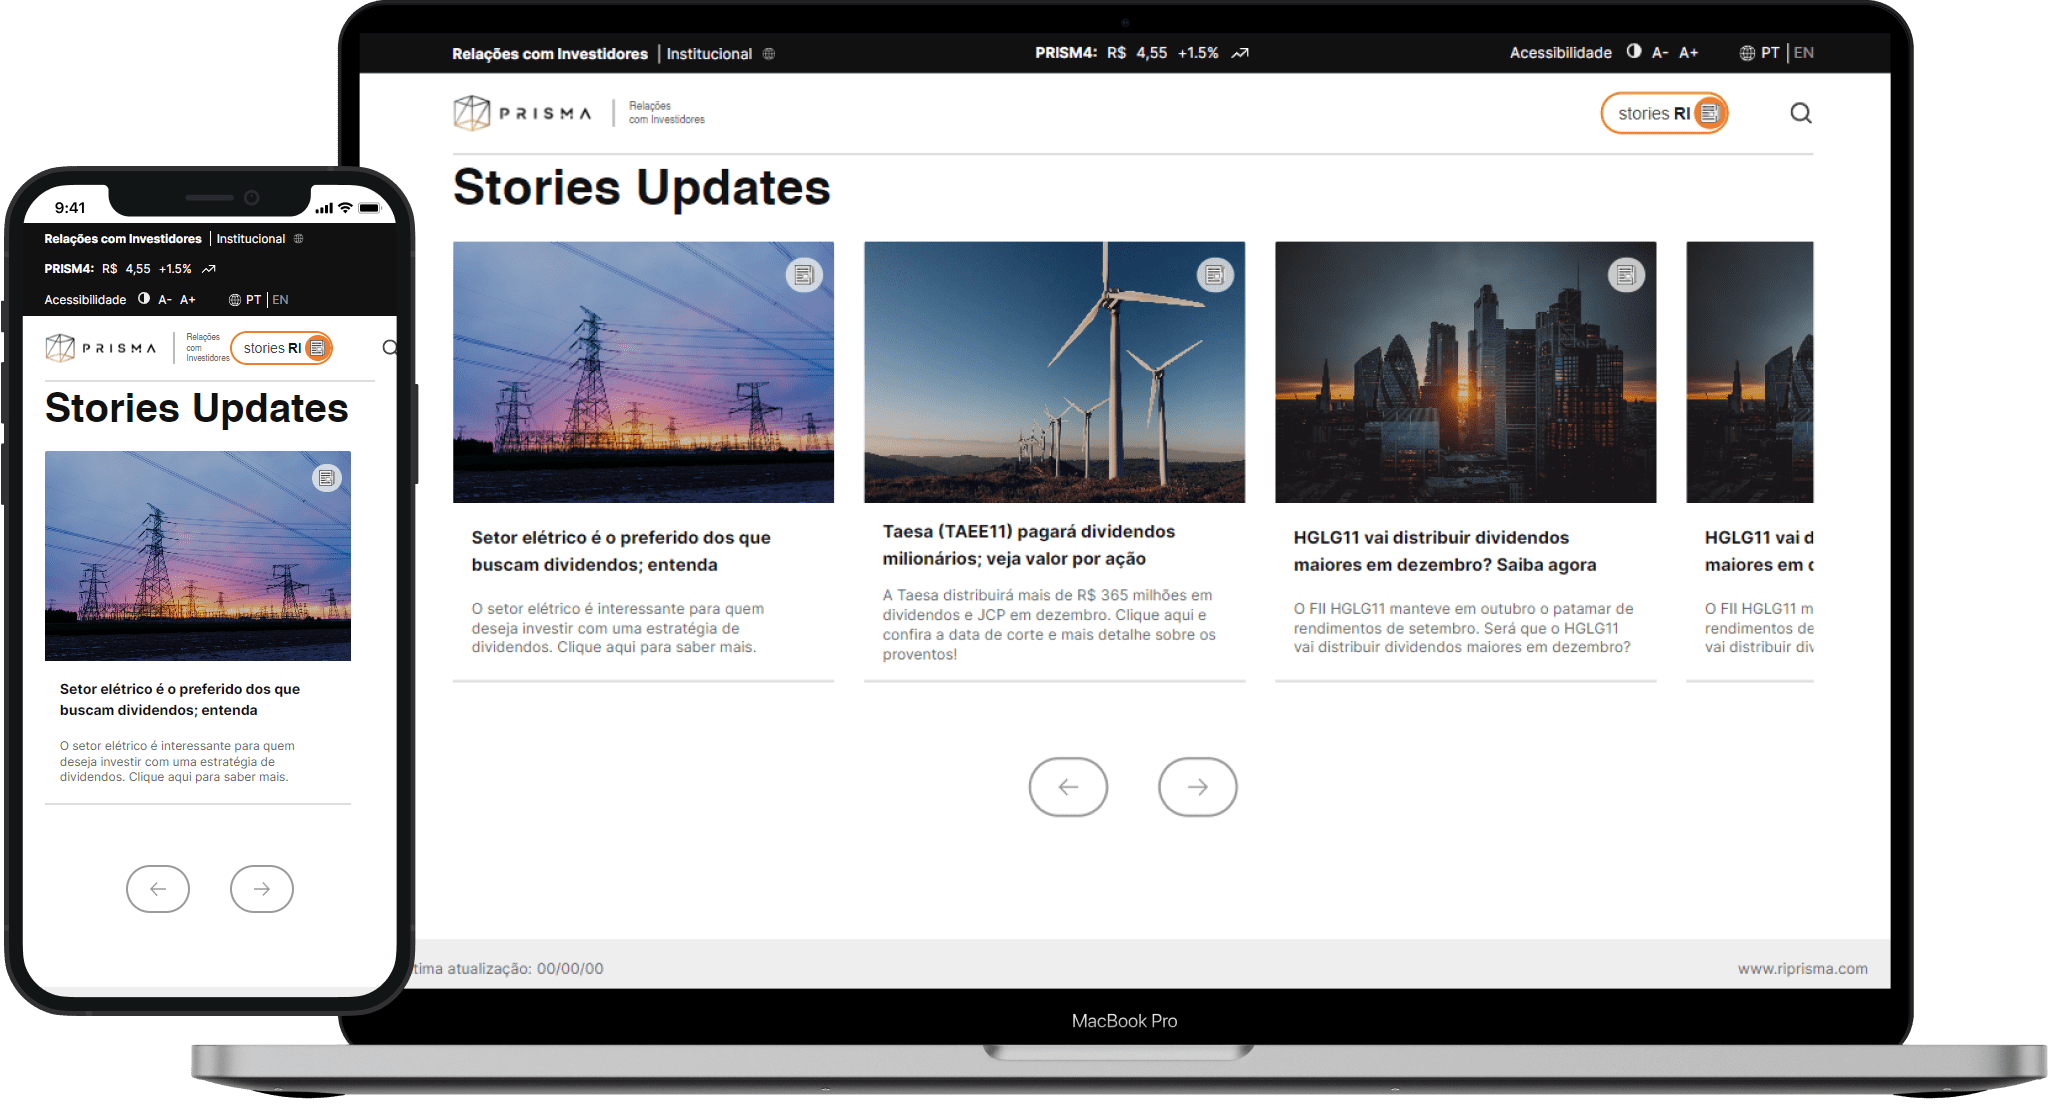
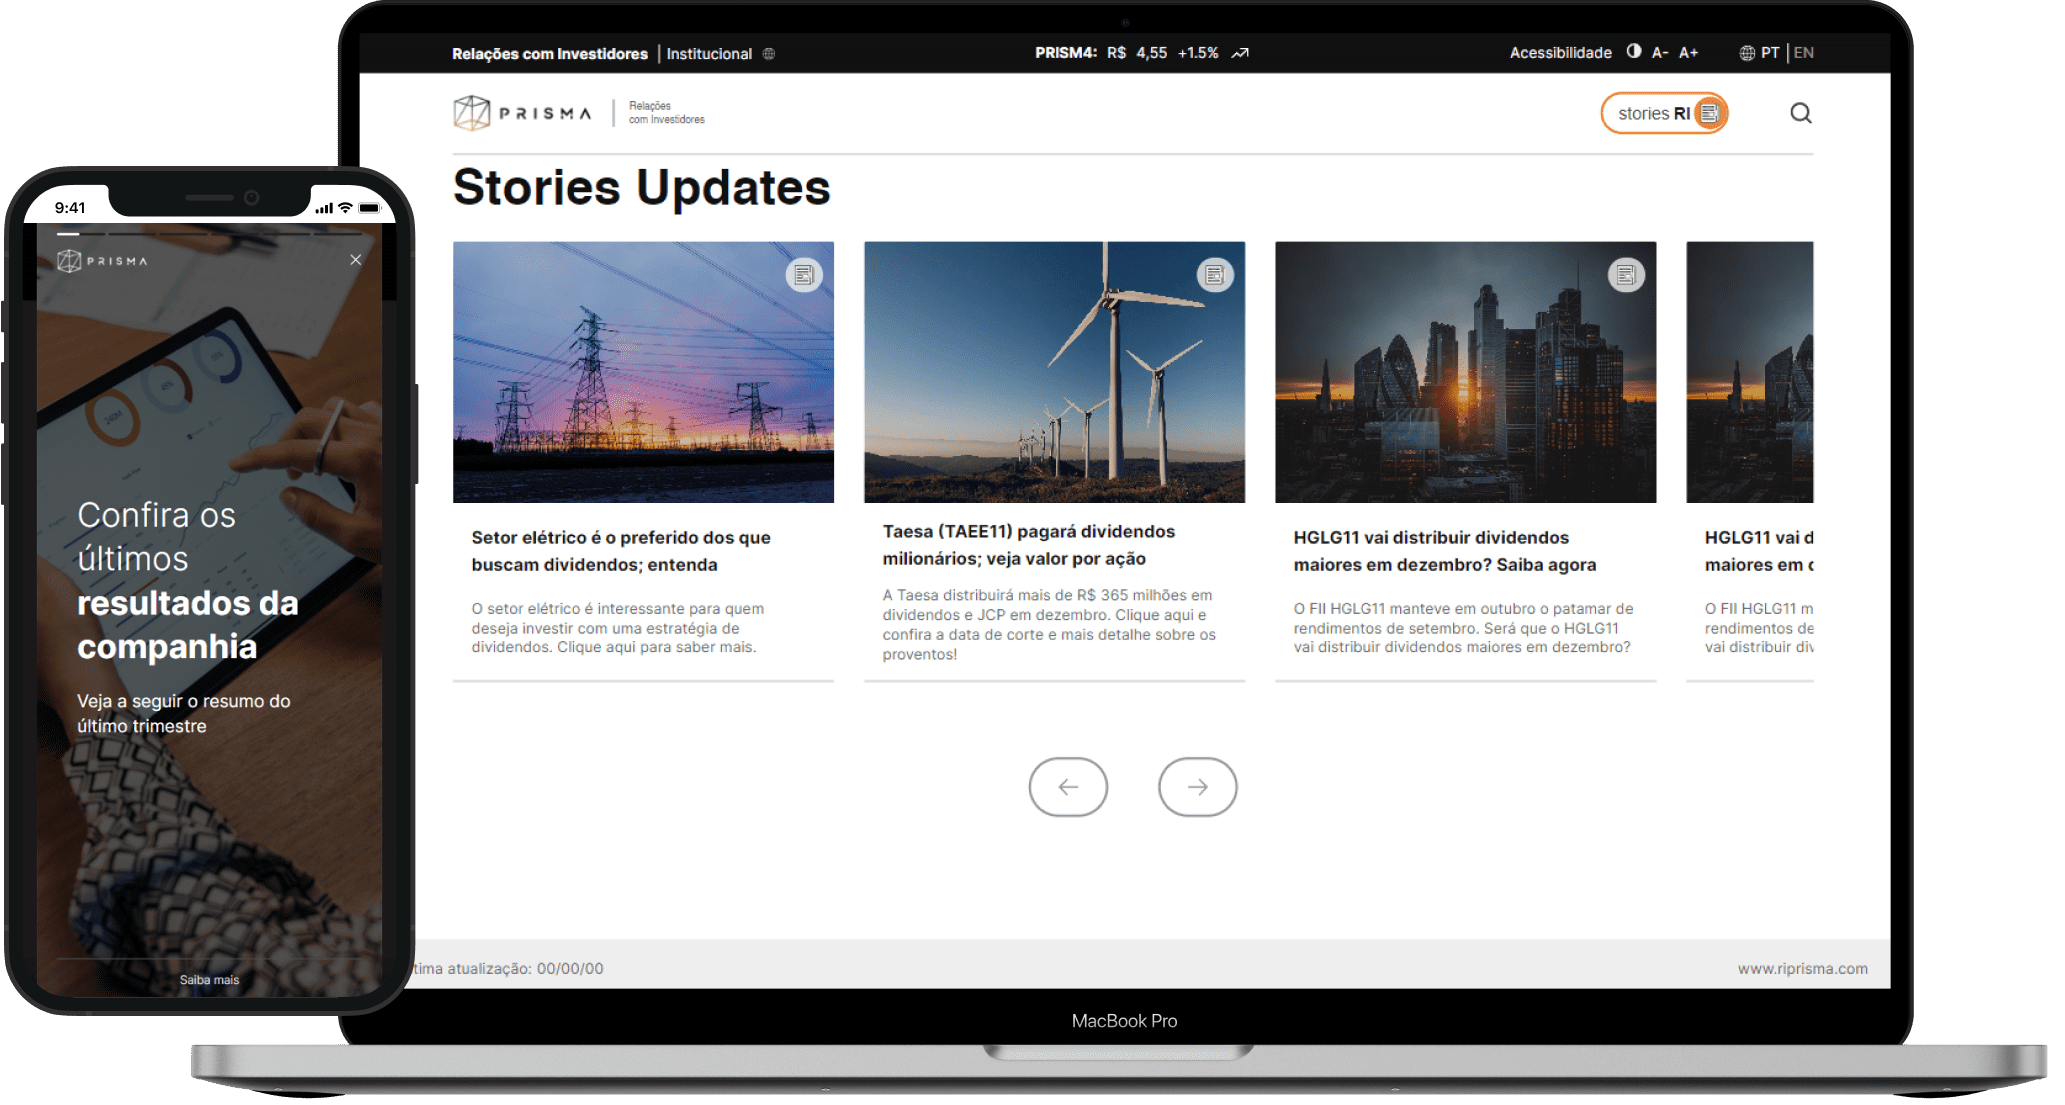
delte header text mobile

Changed region(s): [[0.0, 0.1846, 0.2169, 0.9231], [0.2479, 0.3077, 0.4029, 0.4]]

diff --git a/sass/style.min.css b/sass/style.min.css
@@ -1,1 +1,1 @@
-@import url("https://fonts.googleapis.com/css2?family=Lato:wght@300;400;700;900&display=swap");@import url("https://fonts.googleapis.com/css2?family=Roboto+Condensed:wght@300;400;700&display=swap");@import url("https://fonts.googleapis.com/css2?family=Ubuntu:wght@300;400;500;700&display=swap");@import url("https://fonts.googleapis.com/css2?family=Cabin:wght@400;500;600;700&display=swap");@import url("https://fonts.googleapis.com/css2?family=Acme&display=swap");@import url("https://fonts.googleapis.com/css2?family=Secular+One&display=swap");body{font-family:'Secular One', sans-serif;color:#f1f1f1}header{height:100vh;display:grid;place-items:center;background:radial-gradient(#530e4d, #390a36, #1c051c)}header>section{display:flex;flex-direction:column;gap:1.5rem}@media screen and (max-width: 775px){header>section{gap:0.8rem}}header>section>p{font-size:2.8rem;line-height:0%;color:#c9b3c8be}@media screen and (max-width: 1450px){header>section>p{font-size:2.5rem}}@media screen and (max-width: 1000px){header>section>p{font-size:2.1rem}}@media screen and (max-width: 775px){header>section>p{font-size:1.5rem}}@media screen and (max-width: 510px){header>section>p{font-size:1rem}}.titleContainer{text-transform:uppercase;font-weight:700;font-size:22rem;line-height:72%}@media screen and (max-width: 1450px){.titleContainer{font-size:18rem}}@media screen and (max-width: 1000px){.titleContainer{font-size:14rem}}@media screen and (max-width: 775px){.titleContainer{font-size:9rem}}@media screen and (max-width: 510px){.titleContainer{font-size:6.2rem}}.titleContainer>div{display:flex;justify-content:space-between;font-size:17rem}@media screen and (max-width: 1450px){.titleContainer>div{font-size:13rem}}@media screen and (max-width: 1000px){.titleContainer>div{font-size:10rem}}@media screen and (max-width: 775px){.titleContainer>div{font-size:5.5rem}}@media screen and (max-width: 510px){.titleContainer>div{font-size:3.6rem}}.titleContainer>div>div{width:100%;display:flex;justify-content:space-evenly}.titleContainer>div>div>a{height:80%;display:flex;align-items:flex-end;position:relative}.titleContainer>div>div>a:hover{transform:translateY(-1rem);transition:.05s}.titleContainer>div>div>a>img{height:5rem;position:absolute}@media screen and (max-width: 1000px){.titleContainer>div>div>a>img{scale:90%}}@media screen and (max-width: 775px){.titleContainer>div>div>a>img{scale:70%;height:100%}}.titleContainer>div>div a:last-child>img{height:5.5rem;transform:translateY(0.5rem)}@media screen and (max-width: 1000px){.titleContainer>div>div a:last-child>img{scale:90%}}@media screen and (max-width: 775px){.titleContainer>div>div a:last-child>img{scale:70%;height:100%}}.descContainer{width:70%;align-self:flex-end;font-family:'Cabin';font-size:1.6rem;text-transform:uppercase;text-align:center;text-indent:15%;word-wrap:break-word;color:#f1f1f1ce}@media screen and (max-width: 1450px){.descContainer{font-size:1.5rem}}@media screen and (max-width: 1000px){.descContainer{font-size:1.2rem}}@media screen and (max-width: 775px){.descContainer{display:none}}.textMobile{width:60%}@media screen and (min-width: 775px){.textMobile{display:none}}.textMobile>p{line-height:100%;font-size:2.4rem;text-align:center}@media screen and (max-width: 510px){.textMobile>p{font-size:1.6rem}}.gradientBackground{height:50px;background:linear-gradient(180deg, #2D082B, #c6a6d2, #c6a6d2)}main>section{background:linear-gradient(#c6a6d2, #d2bea6);display:flex;justify-content:center}.contentProjects{width:90%;height:80%;display:flex;flex-wrap:wrap}.contentProjects>div{flex:1;display:flex;flex-direction:column;align-items:center;gap:1rem;margin:6rem 0rem;text-align:center;text-transform:uppercase;color:#131313}.contentProjects>div .screens{font-size:1.5rem;color:#2a2a2a}@media screen and (max-width: 775px){.contentProjects>div .screens{font-size:1.3rem}}.contentProjects>div .screens>figure{display:flex;flex-direction:column;gap:2rem}.contentProjects>div .screens>figure img{width:620px}@media screen and (max-width: 1450px){.contentProjects>div .screens>figure img{width:490px}}@media screen and (max-width: 775px){.contentProjects>div .screens>figure img{width:390px}}@media screen and (max-width: 510px){.contentProjects>div .screens>figure img{width:290px}}.contentProjects>div .texts{font-size:2rem;font-weight:bold}@media screen and (max-width: 775px){.contentProjects>div .texts{font-size:1.6rem}}.contentProjects>div .buttons{width:100%;display:flex;justify-content:center;gap:2rem}.contentProjects>div .buttons>a>button{margin-top:1rem;width:13rem;height:4rem;border-radius:0.2rem;border:1px solid #131313;background:#ffffff21;cursor:pointer;position:relative;z-index:2;transition:0.1s linear;overflow:hidden;color:#2D082B;text-transform:uppercase}@media screen and (max-width: 775px){.contentProjects>div .buttons>a>button{width:12rem;height:3.8rem}}.contentProjects>div .buttons>a>button:hover{color:#fff}.contentProjects>div .buttons>a:first-child>button::after{content:'';position:absolute;rotate:25deg;width:25%;height:300%;top:-30px;left:-10px;background:#2D082B;transition:0.15s linear;z-index:-1}.contentProjects>div .buttons>a:first-child>button:hover::after{width:120%;color:#fff}.contentProjects>div .buttons>a:last-child>button::after{content:'';position:absolute;rotate:25deg;width:25%;height:160%;top:-10px;left:-10px;background:#2D082B;transition:0.15s ease;z-index:-1}.contentProjects>div .buttons>a:last-child>button:hover::after{width:120%;height:160%;color:#fff}
+@import url("https://fonts.googleapis.com/css2?family=Lato:wght@300;400;700;900&display=swap");@import url("https://fonts.googleapis.com/css2?family=Roboto+Condensed:wght@300;400;700&display=swap");@import url("https://fonts.googleapis.com/css2?family=Ubuntu:wght@300;400;500;700&display=swap");@import url("https://fonts.googleapis.com/css2?family=Cabin:wght@400;500;600;700&display=swap");@import url("https://fonts.googleapis.com/css2?family=Acme&display=swap");@import url("https://fonts.googleapis.com/css2?family=Secular+One&display=swap");body{font-family:'Secular One', sans-serif;color:#f1f1f1}header{height:100vh;display:grid;place-items:center;background:radial-gradient(#530e4d, #390a36, #1c051c)}header>section{display:flex;flex-direction:column;gap:1.5rem}@media screen and (max-width: 775px){header>section{gap:0.8rem}}header>section>p{font-size:2.8rem;line-height:0%;color:#c9b3c8be}@media screen and (max-width: 1450px){header>section>p{font-size:2.5rem}}@media screen and (max-width: 1000px){header>section>p{font-size:2.1rem}}@media screen and (max-width: 775px){header>section>p{font-size:1.5rem}}@media screen and (max-width: 510px){header>section>p{font-size:1rem}}.titleContainer{text-transform:uppercase;font-weight:700;font-size:22rem;line-height:72%}@media screen and (max-width: 1450px){.titleContainer{font-size:18rem}}@media screen and (max-width: 1000px){.titleContainer{font-size:14rem}}@media screen and (max-width: 775px){.titleContainer{font-size:9rem}}@media screen and (max-width: 510px){.titleContainer{font-size:6.2rem}}.titleContainer>div{display:flex;justify-content:space-between;font-size:17rem}@media screen and (max-width: 1450px){.titleContainer>div{font-size:13rem}}@media screen and (max-width: 1000px){.titleContainer>div{font-size:10rem}}@media screen and (max-width: 775px){.titleContainer>div{font-size:5.5rem}}@media screen and (max-width: 510px){.titleContainer>div{font-size:3.6rem}}.titleContainer>div>div{width:100%;display:flex;justify-content:space-evenly}.titleContainer>div>div>a{height:80%;display:flex;align-items:flex-end;position:relative}.titleContainer>div>div>a:hover{transform:translateY(-1rem);transition:.05s}.titleContainer>div>div>a>img{height:5rem;position:absolute}@media screen and (max-width: 1000px){.titleContainer>div>div>a>img{scale:90%}}@media screen and (max-width: 775px){.titleContainer>div>div>a>img{scale:70%;height:100%}}.titleContainer>div>div a:last-child>img{height:5.5rem;transform:translateY(0.5rem)}@media screen and (max-width: 1000px){.titleContainer>div>div a:last-child>img{scale:90%}}@media screen and (max-width: 775px){.titleContainer>div>div a:last-child>img{scale:70%;height:100%}}.descContainer{width:70%;align-self:flex-end;font-family:'Cabin';font-size:1.6rem;text-transform:uppercase;text-align:center;text-indent:15%;word-wrap:break-word;color:#f1f1f1ce}@media screen and (max-width: 1450px){.descContainer{font-size:1.5rem}}@media screen and (max-width: 1000px){.descContainer{font-size:1.2rem}}@media screen and (max-width: 775px){.descContainer{font-size:1rem;width:95%}}@media screen and (max-width: 510px){.descContainer{font-size:.73rem}}.textMobile{display:none}@media screen and (min-width: 775px){.textMobile{display:none}}.gradientBackground{height:50px;background:linear-gradient(180deg, #2D082B, #c6a6d2, #c6a6d2)}main>section{background:linear-gradient(#c6a6d2, #d2bea6);display:flex;justify-content:center}.contentProjects{width:90%;height:80%;display:flex;flex-wrap:wrap}.contentProjects>div{flex:1;display:flex;flex-direction:column;align-items:center;gap:1rem;margin:6rem 0rem;text-align:center;text-transform:uppercase;color:#131313}.contentProjects>div .screens{font-size:1.5rem;color:#2a2a2a}@media screen and (max-width: 775px){.contentProjects>div .screens{font-size:1.3rem}}.contentProjects>div .screens>figure{display:flex;flex-direction:column;gap:2rem}.contentProjects>div .screens>figure img{width:620px}@media screen and (max-width: 1450px){.contentProjects>div .screens>figure img{width:490px}}@media screen and (max-width: 775px){.contentProjects>div .screens>figure img{width:390px}}@media screen and (max-width: 510px){.contentProjects>div .screens>figure img{width:290px}}.contentProjects>div .texts{font-size:2rem;font-weight:bold}@media screen and (max-width: 775px){.contentProjects>div .texts{font-size:1.6rem}}.contentProjects>div .buttons{width:100%;display:flex;justify-content:center;gap:2rem}.contentProjects>div .buttons>a>button{margin-top:1rem;width:13rem;height:4rem;border-radius:0.2rem;border:1px solid #131313;background:#ffffff21;cursor:pointer;position:relative;z-index:2;transition:0.1s linear;overflow:hidden;color:#2D082B;text-transform:uppercase}@media screen and (max-width: 775px){.contentProjects>div .buttons>a>button{width:12rem;height:3.8rem}}.contentProjects>div .buttons>a>button:hover{color:#fff}.contentProjects>div .buttons>a:first-child>button::after{content:'';position:absolute;rotate:25deg;width:25%;height:300%;top:-30px;left:-10px;background:#2D082B;transition:0.15s linear;z-index:-1}.contentProjects>div .buttons>a:first-child>button:hover::after{width:120%;color:#fff}.contentProjects>div .buttons>a:last-child>button::after{content:'';position:absolute;rotate:25deg;width:25%;height:160%;top:-10px;left:-10px;background:#2D082B;transition:0.15s ease;z-index:-1}.contentProjects>div .buttons>a:last-child>button:hover::after{width:120%;height:160%;color:#fff}

diff --git a/sass/style.css b/sass/style.css
@@ -199,29 +199,24 @@ header > section > p {
 
 @media screen and (max-width: 775px) {
   .descContainer {
-    display: none;
+    font-size: 1rem;
+    width: 95%;
+  }
+}
+
+@media screen and (max-width: 510px) {
+  .descContainer {
+    font-size: .73rem;
   }
 }
 
 .textMobile {
-  width: 60%;
+  display: none;
 }
 
 @media screen and (min-width: 775px) {
   .textMobile {
     display: none;
-  }
-}
-
-.textMobile > p {
-  line-height: 100%;
-  font-size: 2.4rem;
-  text-align: center;
-}
-
-@media screen and (max-width: 510px) {
-  .textMobile > p {
-    font-size: 1.6rem;
   }
 }
 

diff --git a/sass/style.sass b/sass/style.sass
@@ -145,20 +145,18 @@ header
   @include tablet
     font-size: 1.2rem
   @include smallTablet
-    display: none
+    font-size: 1rem
+    width: 95%
+  @include mobile
+    font-size: .73rem
+
 
 
 
 .textMobile
-  width: 60%
+  display: none
   @include disableTextMobile
     display: none
-  >p
-    line-height: 100%
-    font-size: 2.4rem
-    text-align: center
-    @include mobile
-      font-size: 1.6rem  
 
 
 
